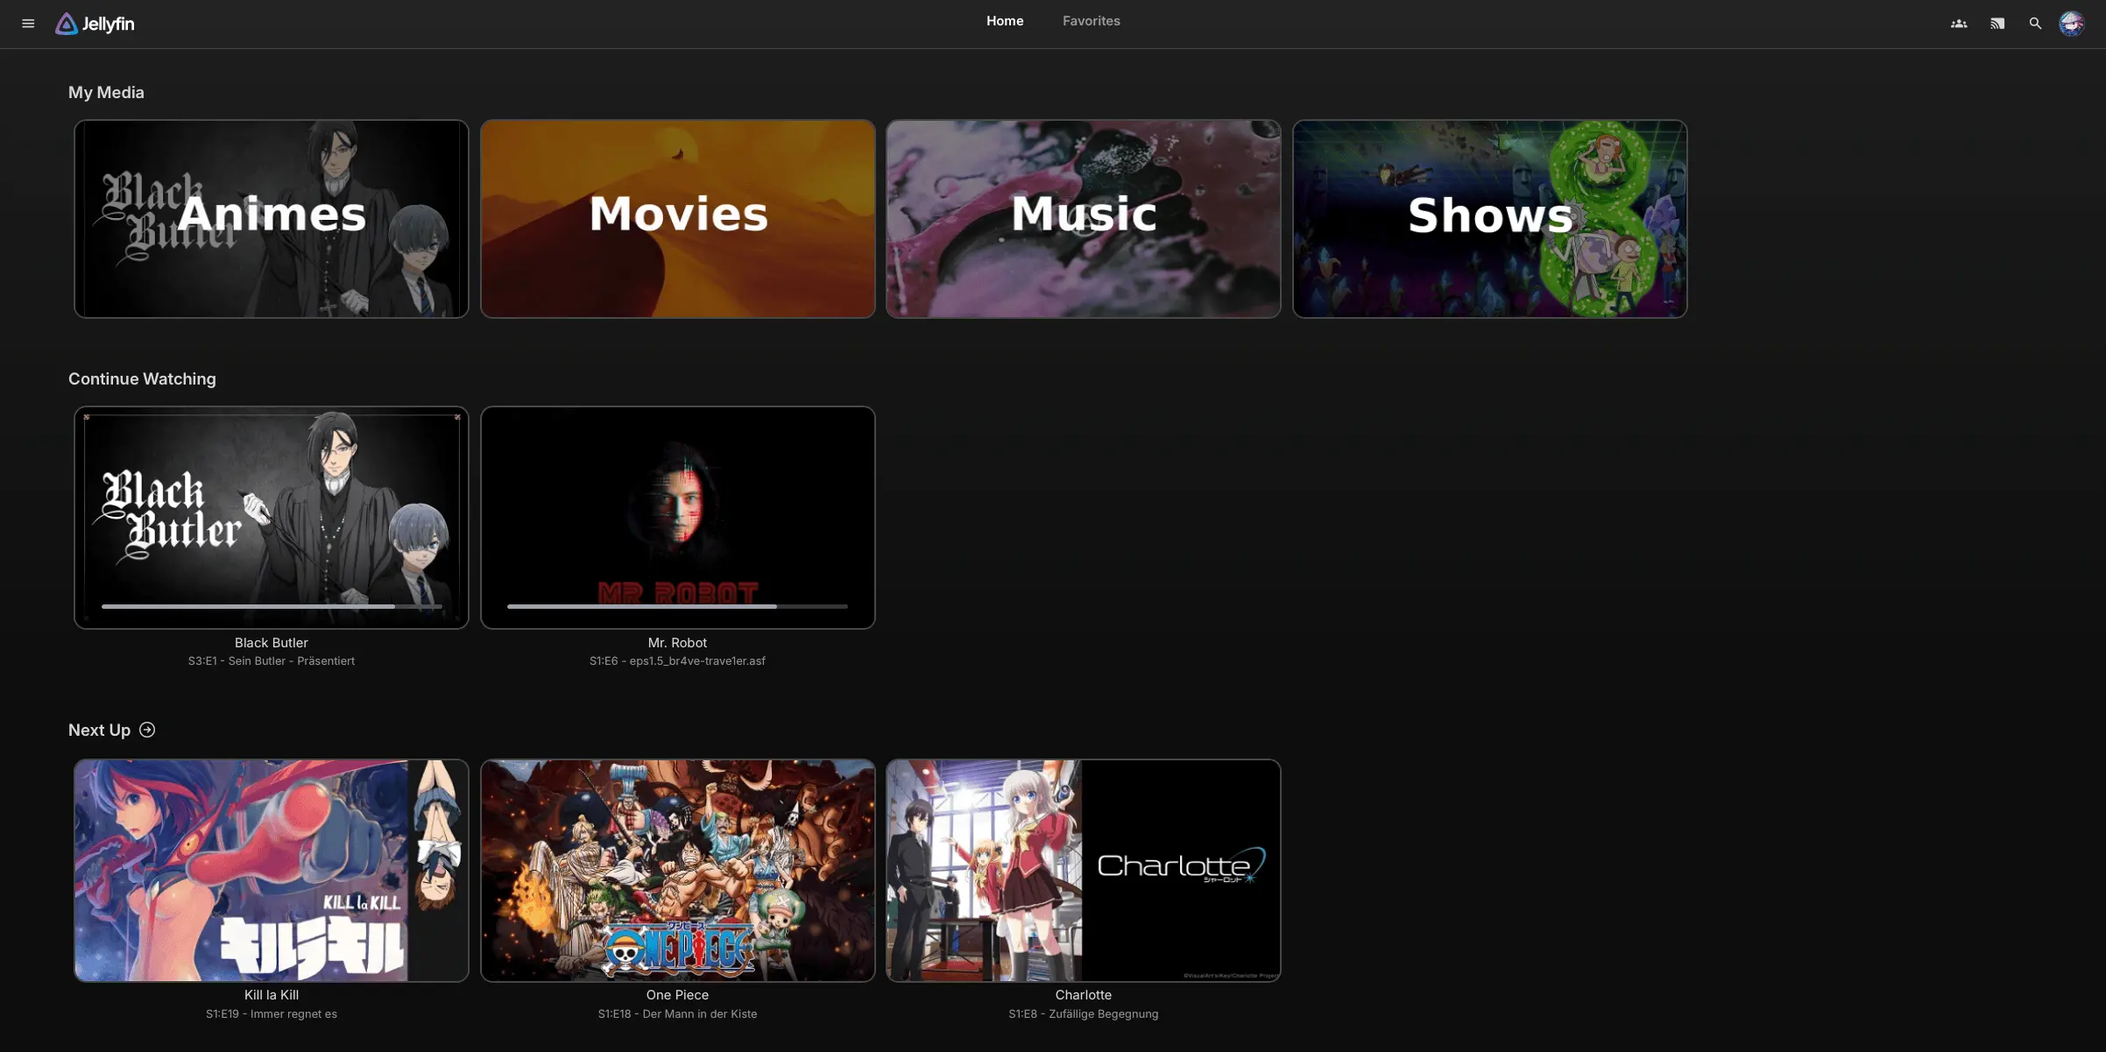
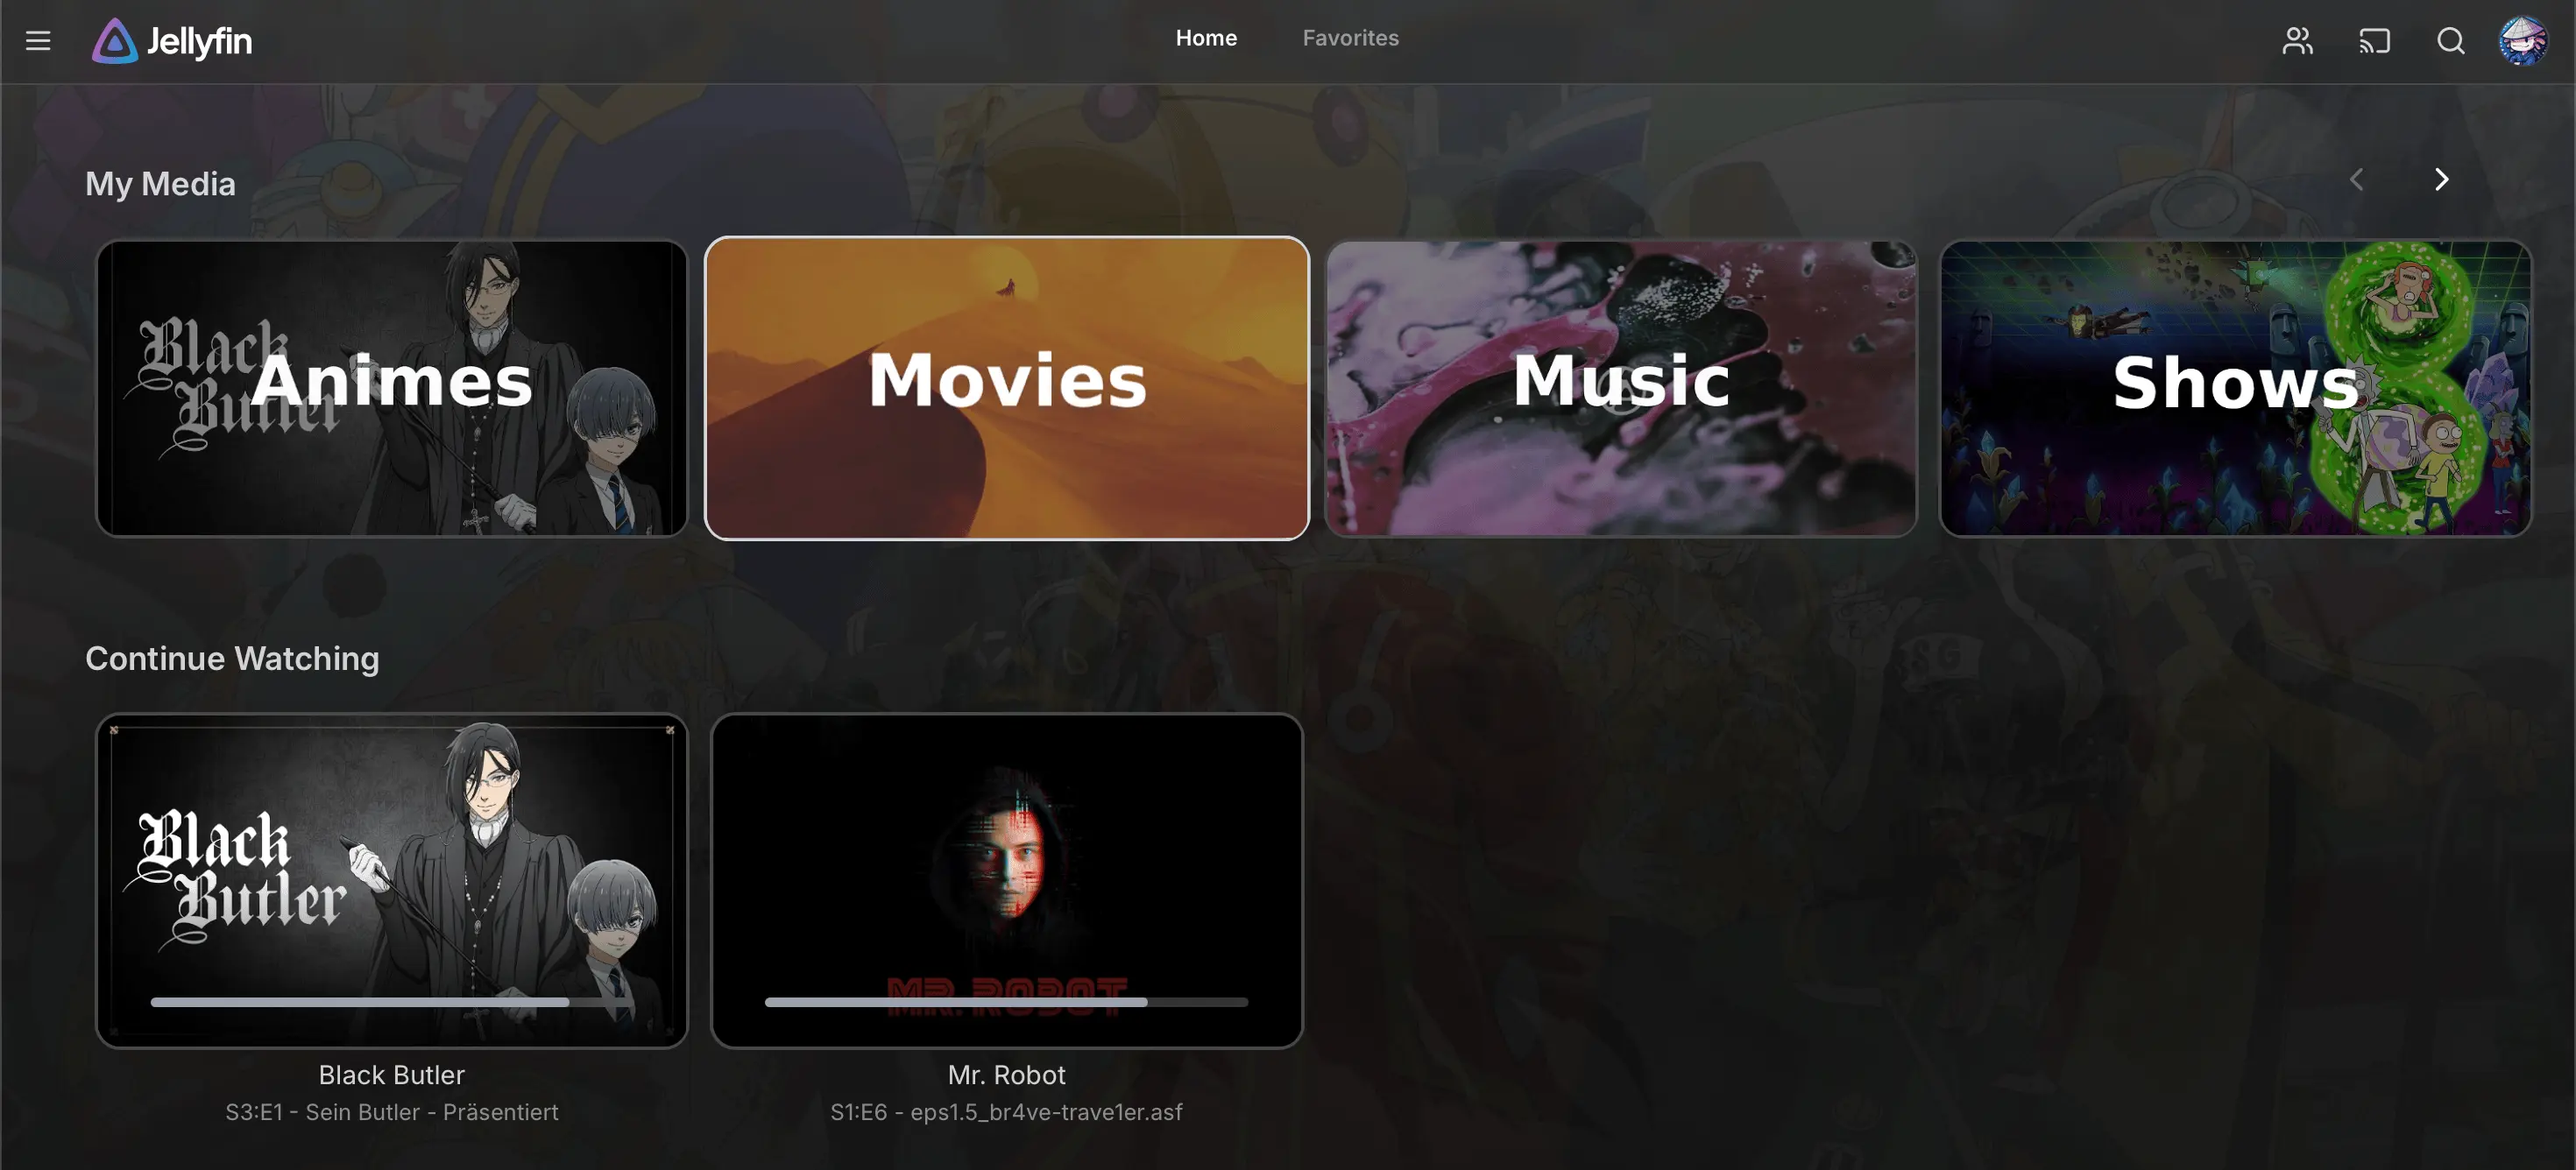
Updated preview images

diff --git a/README.md b/README.md
@@ -1,6 +1,8 @@
 # NeutralFin Theme
 
-NeutralFin is a custom Jellyfin theme inspired by [lscambo13's ElegantFin](https://github.com/lscambo13/ElegantFin), featuring a sleek black and grey color scheme for a more neutral and modern look
+NeutralFin is a custom Jellyfin theme inspired by [lscambo13's ElegantFin](https://github.com/lscambo13/ElegantFin), featuring a sleek black and grey color scheme for a more neutral and modern look.
+
+The preview images also use the [Jellyfin Lucide](https://github.com/KartoffelChipss/Jellyfin-Lucide) theme for more modern icons.
 
 ![Movie Pahe Preview](./assets/neutralfin-movie.webp)
 
@@ -8,7 +10,7 @@ NeutralFin is a custom Jellyfin theme inspired by [lscambo13's ElegantFin](https
 
 You can install this theme by pasting the following code into the custom CSS box:
 
-```
+```css
 @import url("https://cdn.jsdelivr.net/gh/KartoffelChipss/NeutralFin@latest/theme/neutralfin-minified.css");
 ```
 
@@ -47,6 +49,13 @@ You can install this theme by pasting the following code into the custom CSS box
     <summary><strong>Home Page Preview</strong></summary>
 
 ![Home Page Preview](./assets/neutralfin-home.webp)
+
+</details>
+
+<details>
+    <summary><strong>Movie List Page Preview</strong></summary>
+
+![Movie List Page Preview](./assets/neutralfin-movies.webp)
 
 </details>
 
